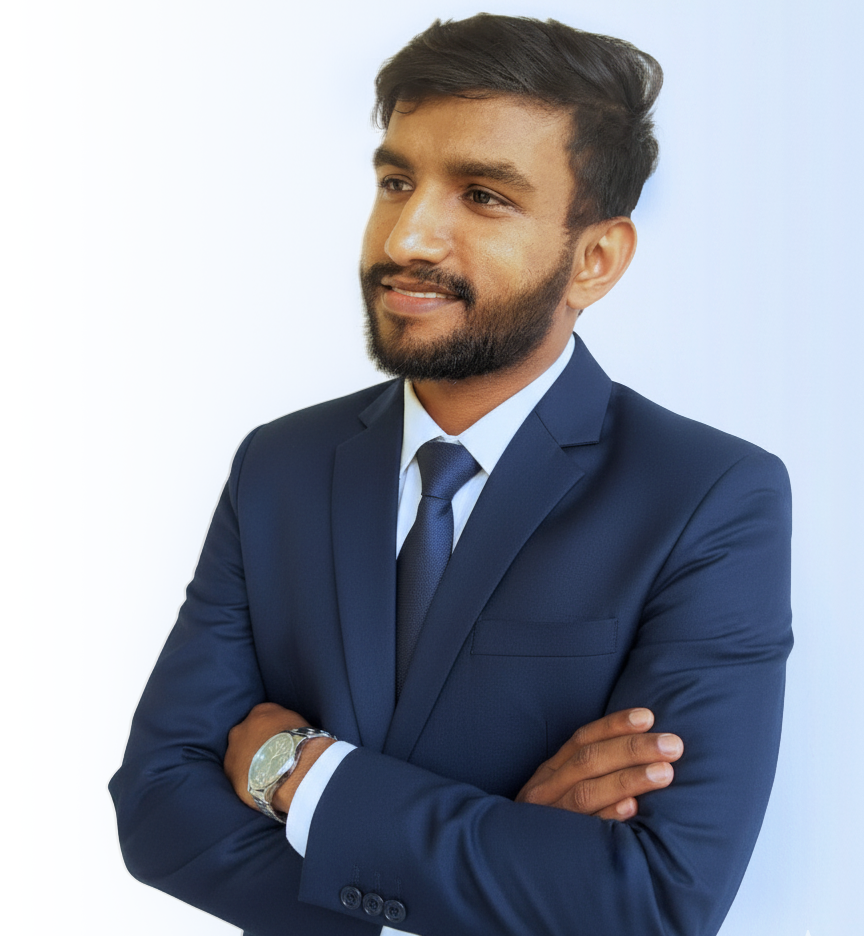
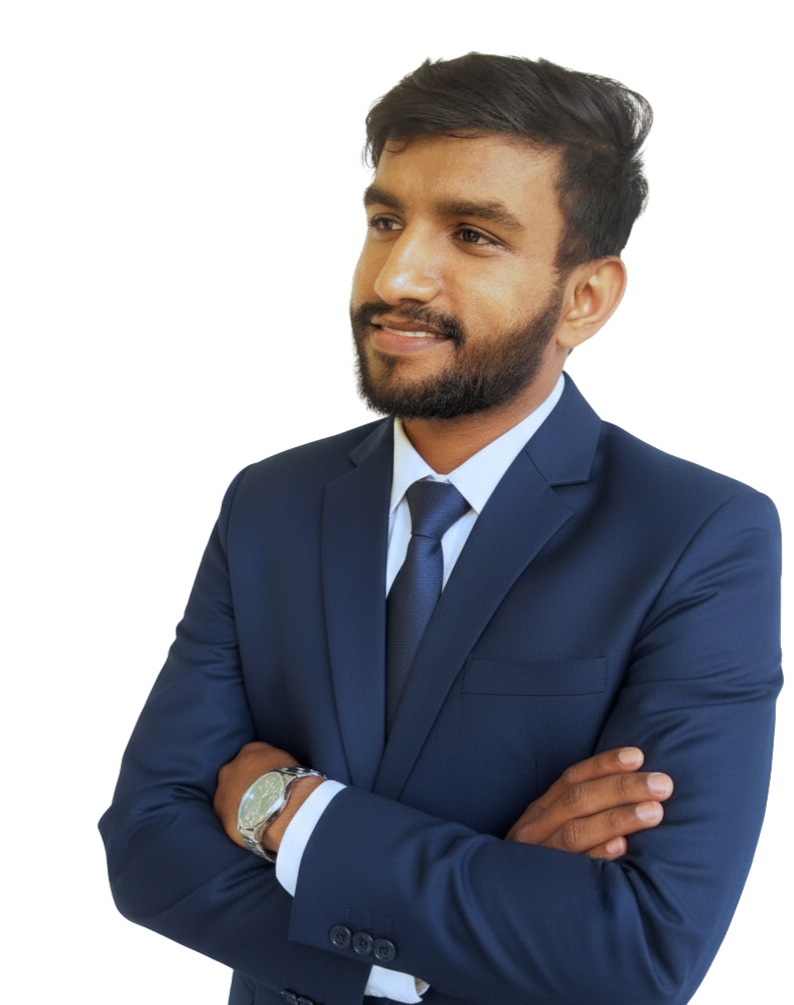
Second Modification

diff --git a/index.html b/index.html
@@ -87,7 +87,7 @@
                     <h3 class="text-primary mb-3">I'm</h3>
                     <h1 class="display-3 mb-3">Dinuka Sanjana Madhumal</h1>
                     <h2 class="typed-text-output d-inline"></h2>
-                    <div class="typed-text d-none">Trainee DevOps Engineer</div>
+                    <div class="typed-text d-none">DevOps Engineer</div>
                     <div class="d-flex align-items-center pt-5">
                             <!-- CV Link -->
                         <a href="https://drive.google.com/drive/folders/1d_NMZSU_Nyg21fslFdf03-yxOqobm_BN?usp=sharing" class="btn btn-primary py-3 px-4 me-5">Download CV</a>
@@ -152,13 +152,13 @@
                 <!-- Main Bio -->
                 <div class="bg-white rounded-4 shadow-sm p-5 border-start border-5 border-primary">
                     <p class="fs-5 text-dark mb-4">
-                        I’m a <strong>B.ET (Hons) Electrotechnology</strong> student at 
-                        <strong class="text-primary">Wayamba University of Sri Lanka</strong>, 
-                        deeply passionate about building <strong>resilient, scalable, and cost-efficient systems</strong> using modern <strong>DevOps</strong> practices.
+                        Hi, I’m <strong>Dinuka Sanjana Madhumal</strong>. I bridge the gap between development and operations by engineering 
+                        <strong class="text-primary">high-availability systems</strong>. 
+                        I am currently focused on leveraging <strong>DevOps practices</strong> to build the <strong>next generation</strong> of scalable cloud architecture.
                     </p>
                     <p class="fs-5 text-dark mb-0">
                         From spinning up <strong>EKS clusters on AWS</strong> to orchestrating 
-                        <strong>zero-downtime microservices with Ansible</strong>, 
+                        <strong>zero-downtime microservices deployments</strong>, 
                         I turn complex infrastructure into simple, repeatable, and fully automated pipelines.
                     </p>
                 </div>
@@ -174,7 +174,7 @@
                     -->
                     <p class="text-muted">
                         <i class="fas fa-clock text-primary me-2"></i>
-                        Currently open to DevOps <!-- • Cloud • Automation  roles --> role
+                        Available for full-time Cloud/DevOps opportunities <!-- • Cloud • Automation  roles --> 
                     </p>
                 </div>
                 
@@ -216,7 +216,7 @@
                             <h2 class="text-primary mb-0" data-toggle="counter-up">8</h2>
                         </div>
                         <div class="ps-5 ps-lg-0">
-                            <p class="mb-2"><i class="far fa-check-circle text-primary me-3"></i>AWS Solutions Architect – Associate <small class="text-muted">(WinSYS)</small></p>
+                            <p class="mb-2"><i class="far fa-check-circle text-primary me-3"></i>AWS Solutions Architect – Associate <small class="text-muted">(Currently Studying)</small></p>
                             <p class="mb-2"><i class="far fa-check-circle text-primary me-3"></i>Docker MasterClass, DevOps Bootcamp <small class="text-muted">(Udemy)</small></p>
                             <p class="mb-2"><i class="far fa-check-circle text-primary me-3"></i>Linux Pro, YAML/JSONPath, Git Fundamentals <small class="text-muted">(Udemy)</small></p>
                             <p class="mb-2"><i class="far fa-check-circle text-primary me-3"></i>Advanced Python, Machine Learning <small class="text-muted">(Datathink)</small></p>
@@ -233,7 +233,7 @@
                             <p class="mb-2"><i class="far fa-check-circle text-primary me-3"></i>Automated e-commerce microservices with Ansible & Docker</p>
                             <p class="mb-2"><i class="far fa-check-circle text-primary me-3"></i>Deployed 2048 game on EKS with ALB & auto-scaling</p>
                             <p class="mb-2"><i class="far fa-check-circle text-primary me-3"></i>Built full IaC infrastructure using Terraform</p>
-                            <p class="mb-2"><i class="far fa-check-circle text-primary me-3"></i>Implemented GitOps CI/CD with ArgoCD & Helm</p>
+                            <p class="mb-2"><i class="far fa-check-circle text-primary me-3"></i>Implemented GitOps CI/CD with ArgoCD</p>
                         </div>
                     </div>
 
@@ -272,11 +272,11 @@
                             <li class="mb-3">EKS • Beanstalk</li>
                             <li class="mb-3">RDS</li>
                             <li class="mb-3">Auto Scaling</li>
-                            <li class="mb-3">CloudWatch</li>
+                            <!-- <li class="mb-3">CloudWatch</li> -->
                         </ul>
 
                         <h4 class="fw-bold text-primary mb-4">
-                            Programming & Scripting
+                            Programming Languages<!-- & Scripting -->
                         </h4>
                         <ul class="list-unstyled">
                             <li class="mb-3">Python (Advanced)</li>
@@ -292,10 +292,10 @@
                         </h4>
                         <ul class="list-unstyled mb-5">
                             <li class="mb-3">Terraform • Ansible</li>
-                            <li class="mb-3">Jenkins • GitHub Actions</li>
+                            <li class="mb-3">Jenkins <!-- • GitHub Actions --> </li>
                             <li class="mb-3">Docker • Docker Compose</li>
                             <li class="mb-3">Kubernetes</li>
-                            <li class="mb-3">eksctl • kubectl • Istio</li>
+                            <li class="mb-3">ArgoCD <!-- • kubectl -->• Istio</li>
                         </ul>
 
                         <!-- This invisible spacer forces perfect alignment -->
@@ -306,7 +306,7 @@
                         </h4>
                         <ul class="list-unstyled">
                             <li class="mb-3">Prometheus • Grafana</li>
-                            <li class="mb-3">CloudWatch</li>
+                            <!-- <li class="mb-3">CloudWatch</li> -->
                         </ul>
                     </div>
 
@@ -388,7 +388,7 @@
                         <i class="fab fa-aws fa-2x text-primary me-3"></i>
                         <div>
                             <h5 class="mb-1">AWS Solutions Architect – Associate</h5>
-                            <p class="text-muted small mb-0">WinSYS Institute • 2025</p>
+                            <p class="text-muted small mb-0">Currently Studying</p>
                         </div>
                     </div>
                     <!--
@@ -511,7 +511,7 @@
                         Automated deployment of a multi-container e-commerce stack including frontend, catalogue, and carts using Ansible roles and Docker Compose on GitHub Codespaces. 
                         Managed services with Supervisor and initialized MySQL database. Enabled seamless SSH-based orchestration across managed nodes.
                     </p>
-                    <p class="small text-muted mb-3"><strong>Tech:</strong> Ansible • Docker Compose • Supervisor • MySQL • GitHub Codespaces</p>
+                    <p class="small text-muted mb-3"><strong>Tech:</strong> Ansible • Docker Compose • MySQL • GitHub Codespaces</p>
                     <a href="https://github.com/DinukaSanjana/bootcamp.git" class="btn btn-outline-primary btn-sm">
                         <i class="fab fa-github me-2"></i>View on GitHub
                     </a>
@@ -530,9 +530,9 @@
                     </div>
                     <p class="mb-3 flex-grow-1">
                         Provisioned a fully functional EKS cluster using eksctl and deployed the 2048 game behind an AWS Application Load Balancer. 
-                        Configured node groups, ingress routing, and Horizontal Pod Autoscaler with Fargate support for efficient resource utilization.
+                        Configured node groups, ingress routing, and Fargate support for efficient resource utilization.
                     </p>
-                    <p class="small text-muted mb-3"><strong>Tech:</strong> AWS EKS • kubectl </p>
+                    <p class="small text-muted mb-3"><strong>Tech:</strong> AWS EKS • Ingress • Load Balancer </p>
                     <a href="https://github.com/DinukaSanjana/aws-devops-zero-to-hero/tree/f4aa48e41941d2eedbd0f57684ccfb3c77fc52a4/day-22" class="btn btn-outline-success btn-sm">
                         <i class="fab fa-github me-2"></i>View on GitHub
                     </a>
@@ -572,9 +572,9 @@
                     </div>
                     <p class="mb-3 flex-grow-1">
                         Deployed a complete Node.js CRUD application on EKS with MySQL RDS backend. 
-                        Created Deployments, Services with LoadBalancer type, and ConfigMaps for environment configuration. Achieved self-healing and multi-AZ database connectivity.
+                        Created Deployments, Services with LoadBalancer type.<!--, and ConfigMaps for environment configuration.--> Achieved self-healing and multi-AZ <!--database--> connectivity.
                     </p>
-                    <p class="small text-muted mb-3"><strong>Tech:</strong> Kubernetes • EKS • RDS • Node.js • kubectl manifests</p>
+                    <p class="small text-muted mb-3"><strong>Tech:</strong> Kubernetes • EKS • RDS • Node.js <!-- • kubectl manifests--></p>
                     <a href="https://github.com/DinukaSanjana/Application-Deployment-on-Kubernetes-Cluster-utilizing-EKS-AWS.git" class="btn btn-outline-info btn-sm">
                         <i class="fab fa-github me-2"></i>View on GitHub
                     </a>
@@ -616,7 +616,7 @@
                         Deployed a Node.js CRUD application on AWS Elastic Beanstalk integrated with RDS. 
                         Configured environment variables, health checks, and auto-scaling policies with rolling updates for continuous availability during deployments.
                     </p>
-                    <p class="small text-muted mb-3"><strong>Tech:</strong> Elastic Beanstalk • RDS • Environment Variables • Rolling Updates</p>
+                    <p class="small text-muted mb-3"><strong>Tech:</strong> Elastic Beanstalk • RDS <!--• Environment Variables -->• Rolling Updates</p>
                     <a href="https://github.com/DinukaSanjana/Deploying-a-Scalable-CRUD-App-Using-AWS-Elastic-Beanstalk.git" class="btn btn-outline-dark btn-sm">
                         <i class="fab fa-github me-2"></i>View on GitHub
                     </a>
@@ -637,7 +637,7 @@
                         Enhanced an existing EKS cluster by installing Istio service mesh with automatic sidecar injection. 
                         Configured gateways, virtual services, and destination rules to enable secure traffic management and observability across microservices.
                     </p>
-                    <p class="small text-muted mb-3"><strong>Tech:</strong> Istio • EKS </p>
+                    <p class="small text-muted mb-3"><strong>Tech:</strong> EKS • Istio • Prometheus  • Grafana</p>
                     <a href="https://github.com/DinukaSanjana/Elevating-Kubernetes-micro-services-with-istio.git" class="btn btn-outline-primary btn-sm">
                         <i class="fab fa-github me-2"></i>View on GitHub
                     </a>
@@ -739,7 +739,7 @@
                             <i class="fas fa-map-marker-alt fa-3x text-primary mb-4"></i>
                             <h5 class="mb-2">Location</h5>
                             <p class="mb-0 text-muted">
-                                No:435, B2 Waththa Road, Thalagala, Sri Lanka.<br>
+                                No:435, B2, Kiriwaththuduwa, Homagama, Sri Lanka.<br>
                                 <!-- <small>(Available for remote worldwide)</small> -->
                             </p>
                         </div>

diff --git a/css/style.css b/css/style.css
@@ -104,9 +104,10 @@
 
 
 /*** Header ***/
+
 #home {
     margin-bottom: 6rem;
-    background: url(../img/bg-header.png) left top no-repeat;
+    /* background: url(../img/bg-header.png) left top no-repeat; */
 }
 
 .typed-cursor {
